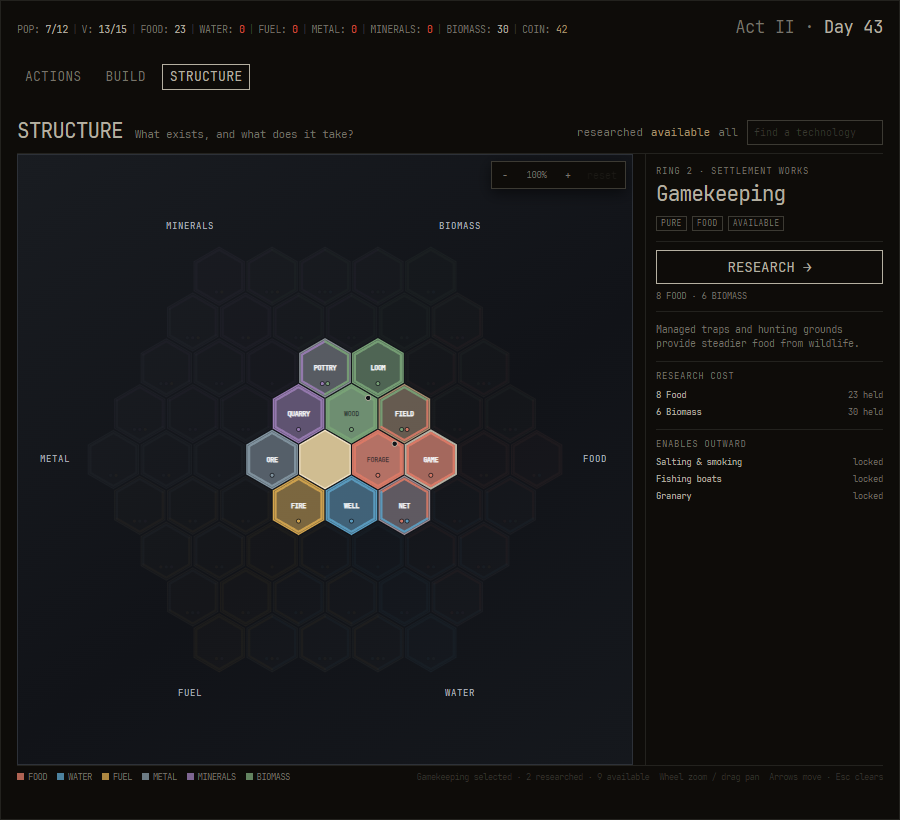
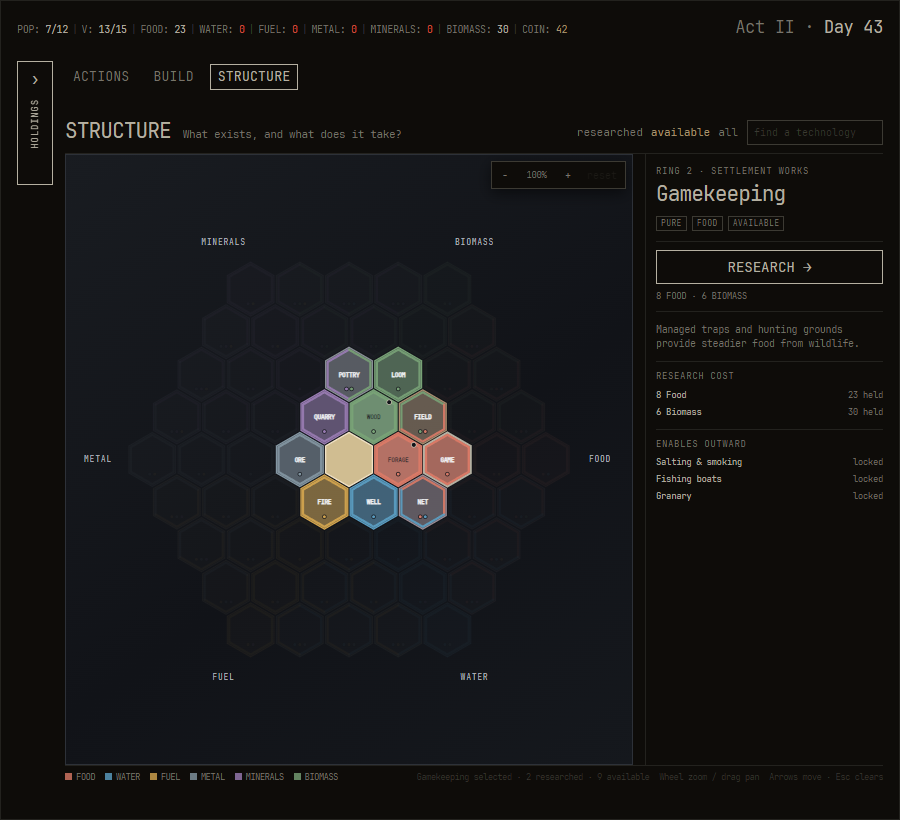
prototype: restore Holdings in Structure

diff --git a/prototypes/act-ii.html b/prototypes/act-ii.html
@@ -281,8 +281,31 @@
       window.refreshPrototypeResources = refreshPrototypeResources;
       refreshPrototypeResources();
 
+      const pageGrid = document.querySelector('#page-grid');
+      const collapseHoldings = document.querySelector('#holdings-collapse');
+      const restoreHoldings = document.querySelector('#holdings-restore');
+      const requestedHoldingsState = prototypeParams.get('holdings');
+      const holdingsCollapsedByView = {
+        actions: requestedHoldingsState === 'collapsed',
+        build: requestedHoldingsState === 'collapsed',
+        structure: requestedHoldingsState !== 'expanded'
+      };
+      let activeView = null;
+      let holdingsCollapsed = false;
+
+      function setHoldingsCollapsed(collapsed, remember = true) {
+        holdingsCollapsed = collapsed;
+        pageGrid.classList.toggle('is-holdings-collapsed', collapsed);
+        collapseHoldings.setAttribute('aria-expanded', String(!collapsed));
+        restoreHoldings.setAttribute('aria-expanded', String(!collapsed));
+        restoreHoldings.hidden = !collapsed;
+        if (remember && activeView) holdingsCollapsedByView[activeView] = collapsed;
+      }
+
       function setView(name, updateHash = true) {
         if (!views[name]) name = 'actions';
+        if (activeView) holdingsCollapsedByView[activeView] = holdingsCollapsed;
+        activeView = name;
         document.querySelector('.act-two').classList.toggle('is-structure-focus', name === 'structure');
         Object.entries(views).forEach(([key, view]) => {
           view.hidden = key !== name;
@@ -290,27 +313,15 @@
           tab.setAttribute('aria-selected', String(key === name));
           tab.tabIndex = key === name ? 0 : -1;
         });
+        setHoldingsCollapsed(holdingsCollapsedByView[name], false);
         if (updateHash && location.hash !== `#${name}`) history.replaceState(null, '', `#${name}`);
-      }
-
-      tabs.forEach(tab => tab.addEventListener('click', () => setView(tab.dataset.view)));
-      addEventListener('hashchange', () => setView(location.hash.slice(1), false));
-      setView(location.hash.slice(1) || 'actions', false);
-
-      const pageGrid = document.querySelector('#page-grid');
-      const collapseHoldings = document.querySelector('#holdings-collapse');
-      const restoreHoldings = document.querySelector('#holdings-restore');
-
-      function setHoldingsCollapsed(collapsed) {
-        pageGrid.classList.toggle('is-holdings-collapsed', collapsed);
-        collapseHoldings.setAttribute('aria-expanded', String(!collapsed));
-        restoreHoldings.setAttribute('aria-expanded', String(!collapsed));
-        restoreHoldings.hidden = !collapsed;
       }
 
       collapseHoldings.addEventListener('click', () => setHoldingsCollapsed(true));
       restoreHoldings.addEventListener('click', () => setHoldingsCollapsed(false));
-      setHoldingsCollapsed(prototypeParams.get('holdings') === 'collapsed');
+      tabs.forEach(tab => tab.addEventListener('click', () => setView(tab.dataset.view)));
+      addEventListener('hashchange', () => setView(location.hash.slice(1), false));
+      setView(location.hash.slice(1) || 'actions', false);
 
       const eatingSlider = document.querySelector('#eating-policy-range');
       const eatingValue = document.querySelector('#eating-policy-value');

diff --git a/prototypes/prototype.css b/prototypes/prototype.css
@@ -1731,12 +1731,6 @@ button:disabled {
   margin-bottom: 8px;
 }
 
-.act-two.is-structure-focus .page-grid {
-  grid-template-columns: minmax(0, 1fr);
-  gap: 0;
-}
-
-.act-two.is-structure-focus .side-rail,
 .act-two.is-structure-focus .merchant-strip,
 .act-two.is-structure-focus .activity-strip {
   display: none;

diff --git a/docs/hex_tech_board_spec.md b/docs/hex_tech_board_spec.md
@@ -19,7 +19,7 @@ Act I deliberately has only two economic stocks:
 
 Act I already includes personal-scale Forage and Split wood behavior. Their ring-1 counterparts must not unlock those verbs a second time. Ring-1 **Foraging** and **Woodcutting** instead mean that Food and Biomass production are established as Act II resource domains that can support a growing population.
 
-Raising **Shelter** ends Act I: other people ask to move in, population can rise above one, and Act II opens. The Act II UI increments this shell rather than replacing it. STRUCTURE remains a tab beside ACTIONS and BUILD; leaving STRUCTURE returns to the preserved Holdings/BODY/eating/activity experience. The Act II prototype drops the persistent event-log footer so the active surface, especially the research board, receives that vertical space.
+Raising **Shelter** ends Act I: other people ask to move in, population can rise above one, and Act II opens. The Act II UI increments this shell rather than replacing it. STRUCTURE remains a tab beside ACTIONS and BUILD; the same Holdings/BODY rail stays available on every tab and defaults to collapsed in STRUCTURE, while eating and activity behavior remain intact. The Act II prototype drops the persistent event-log footer so the active surface, especially the research board, receives that vertical space.
 
 ### Transition into Act II
 
@@ -235,7 +235,7 @@ Show the factual deficit only. Do not append acquisition-route advice or direct 
 
 ## 8. Board interaction contract
 
-- STRUCTURE remains a tab beside ACTIONS and BUILD. It may use the approved focused layout that temporarily hides Holdings, the merchant row, and the activity strip so the map and right detail pane have room; those systems remain intact on the other tabs.
+- STRUCTURE remains a tab beside ACTIONS and BUILD. Its focused layout keeps the shared Holdings/BODY rail available at the left, collapsed by default, while temporarily hiding the merchant row and activity strip so the map and right detail pane retain room. Expanding or collapsing Holdings must not rebuild or reset the board.
 - Ring 0 is a neutral, noninteractive foundation hex and never opens a detail or research action.
 - Available and Researched technology tiles can be selected with pointer or keyboard. Locked tiles are absent from the focus order and expose no click action.
 - The right detail pane shows: technology name, ring/era, pure or hybrid domain, progression state, effect, authored resource cost, current affordability/deficits, and what the technology enables.
@@ -414,5 +414,5 @@ Hybrid (`k = 1..3`, low `k` nearer the first resource):
 - Research uses **RESEARCH →**, consumes its authored resource bundle atomically, and never consumes Coin, Knowledge, or generic Materials.
 - Researching a tile lights only eligible immediate outward neighbors; nothing opens elsewhere.
 - Research never constructs an item directly; resulting goods remain in BUILD.
-- The board preserves ACTIONS, BUILD, Holdings/BODY, eating policy, and activity. The Act II prototype intentionally omits the persistent event-log footer to reserve vertical space.
+- The board preserves ACTIONS, BUILD, Holdings/BODY, eating policy, and activity. STRUCTURE exposes the same Holdings/BODY rail collapsed by default; ACTIONS and BUILD retain their expanded defaults, and each view remembers user toggles. The Act II prototype intentionally omits the persistent event-log footer to reserve vertical space.
 - Filters compound as Researched < Available < All, and zoom/pan/reset do not interfere with tile, ring-0, search, or keyboard interactions.
